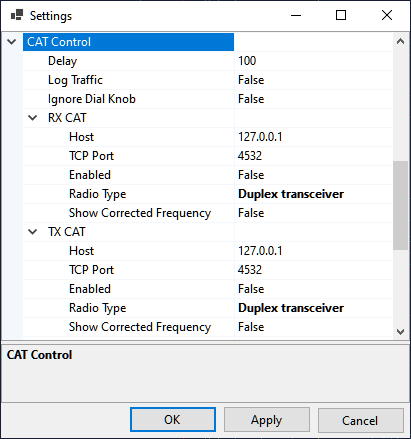
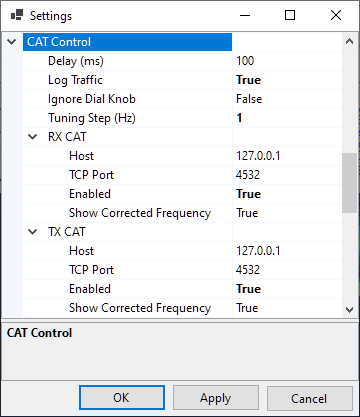
alt key increases wheel tuning speed

diff --git a/SkyRoof/Settings/SettingsDialog.cs b/SkyRoof/Settings/SettingsDialog.cs
@@ -97,12 +97,6 @@ namespace SkyRoof
         case "SkyRoof.OutputStreamSettings.Gain":
           ValidateInt(e, 60, -60);
           break;
-
-          //{!} case "SkyRoof.CatRadioSettings.Host":
-          //case "SkyRoof.CatRadioSettings.Port":
-          //case "SkyRoof.CatRadioSettings.RadioType":
-          //  VadidateCat(e);
-          //  break;
       }
 
       if (canChange) ChangedFields.Add(label);
@@ -129,26 +123,6 @@ namespace SkyRoof
       int cleanValue = Math.Max(min, Math.Min(max, (int)e.ChangedItem.Value));
       e.ChangedItem.PropertyDescriptor.SetValue(e.ChangedItem.Parent.Value, cleanValue);
     }
-
-    //{!} private void VadidateCat(PropertyValueChangedEventArgs e)
-    //{
-    //  var cat = (grid.SelectedObject as Settings)!.Cat;
-    //  if (!CatControl.IsSameHostPort(cat.RxCat, cat.TxCat)) return;
-
-    //  if (cat.RxCat.RadioType != cat.TxCat.RadioType)
-    //  {
-    //    if (e.ChangedItem?.Value?.ToString() == cat.TxCat.RadioType) 
-    //      cat.RxCat.RadioType = cat.TxCat.RadioType;
-    //    else 
-    //      cat.TxCat.RadioType = cat.RxCat.RadioType;
-
-    //    MessageBox.Show("RX CAT and TX CAT have the same host and port number. Making RadioTypes the same as well.",
-    //      "Warning", MessageBoxButtons.OK, MessageBoxIcon.Information);
-
-    //    return;
-    //  }
-    //}
-
 
 
 

diff --git a/SkyRoof/CAT/CatControlEngine.cs b/SkyRoof/CAT/CatControlEngine.cs
@@ -33,28 +33,9 @@ namespace SkyRoof
 
     public CatControlEngine(CatRadioSettings radioSettings, CatSettings catSettings) : base(radioSettings.Host, radioSettings.Port, catSettings)
     {
-      //{!} RadioType = radioSettings.RadioType;
       TuningStep = catSettings.TuningStep;
       IgnoreDialKnob = catSettings.IgnoreDialKnob;
     }
-
-    //{!}  todo: remove this, make RadioCapabilities of rigctld.exe a constant
-    //public static List<RadioCapabilities> BuildRadioCapabilitiesListZ()
-    //{
-    //  // try to read the cad_info file
-    //  string path = Path.Combine(Utils.GetUserDataFolder(), "cat_info.json");
-    //  RadioCapabilitiesList? list = null;
-    //  try { list = RadioCapabilitiesList.Load(path); } catch { }
-
-    //  // overwrite if cat_info is missing or corrupt, or outdated, or contains no radios
-    //  if (list == null || list.version < 1 || list.radios.Count == 0)
-    //  {
-    //    File.WriteAllBytes(path, Resources.cat_info);
-    //    list = RadioCapabilitiesList.Load(path);
-    //  }
-
-    //  return list.radios;
-    //}
 
     private void LogInfo(string msg)
     {

diff --git a/SkyRoof/Settings/CatSettings.cs b/SkyRoof/Settings/CatSettings.cs
@@ -63,12 +63,6 @@ namespace SkyRoof
     [DefaultValue(false)]
     public bool Enabled { get; set; }
 
-    //{!} [TypeConverter(typeof(RadioModelConverter))]
-    //[DisplayName("Radio Type")]
-    //[Description("Defines the capabilities of the radio")]
-    //[DefaultValue("Simplex")]
-    //public string RadioType { get; set; } = "Simplex";
-
     [DisplayName("Show Corrected Frequency")]
     [Description("Show the frequency with all corrections (True) or the nominal frequency (False)")]
     [DefaultValue(true)]

diff --git a/SkyRoof/Settings/Settings.cs b/SkyRoof/Settings/Settings.cs
@@ -73,10 +73,6 @@ namespace SkyRoof
         Ui.DockingLayoutString = Encoding.UTF8.GetString(Properties.Resources.default_docking);
 
       Satellites.Sanitize(true);
-
-      //{!} var validRadioTypes = CatControlEngine.BuildRadioCapabilitiesList().Select(r => r.model);
-      //if (!validRadioTypes.Contains(Cat.RxCat.RadioType)) Cat.RxCat.RadioType = "SkyCAT";
-      //if (!validRadioTypes.Contains(Cat.TxCat.RadioType)) Cat.TxCat.RadioType = "SkyCAT";
     }
   }
 }

diff --git a/SkyRoof/Panels/WaterfallPanel.cs b/SkyRoof/Panels/WaterfallPanel.cs
@@ -310,7 +310,9 @@ namespace SkyRoof
       if (freq == null) return;
       var x = ScaleControl.FreqToPixel((double)freq);
       if (Math.Abs(x - e.X) > 200) return;
-      ctx.FrequencyControl.IncrementDownlinkFrequency(e.Delta > 0 ? 20 : -20);
+
+      int step = ModifierKeys.HasFlag(Keys.Alt) ? 500 : 20;
+      ctx.FrequencyControl.IncrementDownlinkFrequency(e.Delta > 0 ? step : -step);
       ScaleControl.Refresh();
     }
 

diff --git a/SkyRoof/Utils.cs b/SkyRoof/Utils.cs
@@ -87,7 +87,7 @@ namespace VE3NEA
       var version = typeof(Utils).Assembly.GetName().Version!;
 
       // {!} todo: remove 'Beta' after release
-     return $"{version.Major}.{version.Minor} Beta";
+     return $"{version.Major}.{version.Minor} RC";
     }
 
     internal static string GetVersionString()

diff --git a/docs/users_guide/setting_up_cat_control.md b/docs/users_guide/setting_up_cat_control.md
@@ -1,8 +1,21 @@
 # Setting Up CAT Control
 
-## rigctld.exe
+SkyRoof uses an external program, either skyctld.exe from SkyCAT or rigctld.exe from HamLib, to control the transceiver. In both cases the CAT control commands are sent using the TCP protocol, so the radio may be moved to a remote computer and controlled via the network if desired.
 
-SkyRoof uses **rigctld.exe**, a HamLib-based CAT control daemon, to control the radio.
+## SkyCAT
+
+SkyCAT is specifically designed for the best satellite tracking experience. It has an open architecture where support of the new radio models is added by creating the command definition files with the corresponding commands. Check the [SkyCAT web site](https://ve3nea.github.io/SkyCAT/index.html)
+for the list of currently supported radios. If your radio model is not yet supported, either create a command definition file for it using the instructions on the SkyCAT web site, or use rigctld.exe instead (see below).
+
+## Using skycat.exe
+
+If your radio is supported by SkyCAT, use skycatd.exe, a command line program that comes as part of the SkyCAT package. To start using it, follow the
+[setup instructions](https://ve3nea.github.io/SkyCAT/skycatd.html) on the SkyCAT web site.
+
+
+## Using rigctld.exe
+
+If a SkyCAT command definition file for your transceiver is not yet available, use **rigctld.exe**, a HamLib-based CAT control daemon. Note, however, that some commands may not work properly with rigctld.exe.
 
 1. Download **hamlib-w64-4.5.5.exe** [from GitHub](https://github.com/Hamlib/Hamlib/releases/tag/4.5.5).
 Other versions may not work correctly.
@@ -23,31 +36,33 @@ Other versions may not work correctly.
 
     In the string above the following arguments are used:
 
-    - **-m 3081** - the radio model is IC-9700;
+    - **-m 3081** - the radio model; 3081 is the Id of IC-9700 (see the
+    [list of id's](https://github.com/Hamlib/Hamlib/wiki/Supported-Radios));
     - **-r COM9** - the COM port used by the radio. In this case, the USB connection to IC-9700 creates two virtual
         COM ports, COM9 and COM10. The port with the lower number is used for CAT;
-    - **-s 115200** - use the highest available COM port speed.
+    - **-s 115200** - use the highest available COM port speed;
+    - **-vvvvv** - optional, writes detailed information to the console window. Useful for troubleshooting.
 
 4. Run rigctld.exe using this shortcut before you enable CAT control in SkyRoof.
 
 ## Settings
 
-Click on **Tools / Settings** in the main menu to open the
-[Settings dialog](settings_window.md):
+The CAT Control settings in the [Settings dialog](settings_window.md) are the same for skycatd.exe and rigctld.exe.
+
+Click on **Tools / Settings** in the main menu to open the **Settings dialog**:
 
 ![Settings Dialog](../images/cat_settings.png)
 
 - **Delay** determines how often SkyRoof sends commands to the radio. The default delay of 100 ms
-    is good in most cases. Increase the delay if your radio is slow;
+    is good in most cases. Increase the delay if your radio's CAT interface is slow;
 - **Log Traffic** should be set to False and enabled only for debugging;
 - **Ignore Dial Knob** - by default, CAT control allows you to change the frequency both in the program and by
-    spinning the dial knob. If for some reason this causes trouble, change this setting to True, then the dial knob
-    will be ignored.
+    spinning the dial knob. If for some reason this causes trouble, change this setting to True, so that the dial knob rotation is ignored.
 
 The two sections in the Settings, **RX CAT** and **TX CAT**, allow you to use either the same radio for RX and TX, or
 two different radios. You can also enable only one of those, or disable both. The recommended configuration is to use an SDR for reception and a transceiver for transmission, in this case RX CAT should be disabled.
 
-To use the same radio for RX and TX, set **Host**, **TCP Port** and **Radio Type** to the same values in
+To use the same radio for RX and TX, set **Host** and **TCP Port** to the same values in
 both sections.
 
 To use two different radios, create a second shortcut for the second radio, and specify a different port number on the command line.
@@ -55,15 +70,11 @@ Enter this port number in the settings as well, and run two instances of **rigct
 
 The settings in the RX and TX sections are:
 
-- **Host** - should be "127.0.0.1" or "localhost" if rigctld is running on the same computer as SkyRoof. It may be changed to a
-    different address for remote control;
-- **TCP Port** - 4532 is the default port used by rigctld. Use a different port in one of the sections to control different radios for RX and TX;
+- **Host** - should be "127.0.0.1" or "localhost" if skycatd or rigctld is running on the same computer as SkyRoof. It may be changed to a different address for remote control;
+- **TCP Port** - 4532 is the default port used by skycatd and rigctld. Use a different port in one of the sections to control different radios for RX and TX;
 - **Enabled** - enable or disable CAT. Another way to toggle CAT is to click on the CAT labels on the status bar:
 
     ![CAT on Statusbar](../images/cat_on_statusbar.png)
 
-- **Radio Type** - as mentioned above, the beta version has been tested only with IC-9700, which is a duplex transceiver.
-    Change this setting if you want to test a radio of a different type;
 - **Show Corrected Frequency** - The SkyRoof can display either the nominal frequency of the satellite transmitter, or the
-    frequency with all corrections applied. Another way to toggle this setting is via a right-click menu on the frequency
-    display on the toolbar.
+    frequency with all corrections applied. Another way to toggle this setting is via the right-click menu on the frequency display widget on the toolbar.

diff --git a/docs/users_guide/frequency_scale.md b/docs/users_guide/frequency_scale.md
@@ -77,9 +77,9 @@ is enabled, tuning the SDR receiver also tunes the external radio to the same fr
 The Manual Offset setting compensates for the transmitter frequency error, see
 [Frequency Control](frequency_control.md) and [Doppler Tracking](doppler_tracking.md) for details.
 
-The offset value is usually the same for all transmitters of a satellite, adjust it for some
+The offset value is usually the same for all transmitters of a satellite, so you can adjust it for some
 non-transponder transmitter before using the transponder. Most satellites with a transponder also
-carry a telemetry or beacon transmitter that you can use to set the manual offset:
+carry a telemetry or beacon transmitter that you can use to set the manual offset. The screenshot below shows the telemetry signal of the MO-122 satellite, and the green rectangle perfectly aligned with its frequency by adjusting the Downlink Manual Offset:
 
 ![MO-122](../images/mo-122.png)
 
@@ -88,8 +88,7 @@ carry a telemetry or beacon transmitter that you can use to set the manual offse
 The screenshot below shows how to set Manual Correction for the uplink and downlink for a linear transponder, such as RS-44.
 
 1. Select the beacon transmitter of the satellite and adjust the Downlink Manual Correction setting to align the transmitter label
-and its signal trace on the waterfall. For RS-44 the required correction is about -1900 Hz. If your offset is different, then yor SDR
-requires [PPM calibration](calibrating_ppm_correction.md).
+and its signal trace on the waterfall. For RS-44 the required correction is about -1900 Hz. If your offset is significantly different from this value, this means that your SDR requires [PPM calibration](calibrating_ppm_correction.md).
 
 2. Select the transponder transmitter and find a clear frequency within the transponder segment. Send a sequence of dots
 and adjust the Uplink Manual Correction to align the center of the green rectangle with the trace of your signals coming from the satellite.

diff --git a/docs/users_guide/system_requirements.md b/docs/users_guide/system_requirements.md
@@ -6,18 +6,33 @@
 - **Video Card**:  OpenGL 3.3 or higher, 512 Mb of texture memory;
 - **Monitor**: screen resolution 1900x1280 or higher, 4K recommended;
 - **Internet**: required, to download satellite data;
-- **SDR**: optional, but highly recommended. Supported models:
+- **SDR**: optional, but highly recommended. Currently plugins are available for:
   - Airspy;
+  - AirspyHF+;
   - SDRplay;
   - RTL-SDR;
-  - HackRF.
+  - HackRF;
+  - PlutoSDR;
+  
+- **Transceiver**: optional. Currently the command definition files are available for:
 
-  Contact me for other models;
-- **Transceiver**: optional. The beta version was tested with IC-9700, IC-705, IC-910H, IC-7100 and  FT-991a.
-  Please try it with other models;
-- **Antenna rotator** - optional, any rotator supported by HamLib. Please test with yours and let me know.
+  - FT-817;
+  - FT-818;
+  - FT-847;
+  - FT-991a;
+  - IC-705;
+  - IC-706MKIIG;
+  - IC-915;
+  - IC-910H;
+  - IC-9700;
+  - TS-2000;
+
+  Many other radios are supported via HamLib;
+
+- **Antenna rotator** - optional, any rotator supported by HamLib.
 
 ## Software
 
 - **OS**: Windows 10 or Windows 11, 64-bit only;
+- **SkyCAT**: optional, for CAT control;
 - **HamLib**: optional, for CAT and rotator control.

diff --git a/docs/users_guide/data_folder.md b/docs/users_guide/data_folder.md
@@ -4,7 +4,10 @@ SkyRoof keeps all of its data in the **data folder**.
 
 - Click on **Help / Data Folder** in the main menu to open this folder in File Explorer.
 - To open the folder when the program is not running, type this in File Explorer:
-    `%appdata%\Afreet\Products\SkyRoof`
+
+    ```bash
+    %appdata%\Afreet\Products\SkyRoof`
+    ```
 
 ## Data Files
 
@@ -20,13 +23,14 @@ SkyRoof keeps all of its data in the **data folder**.
 
 - **Satellites.json** - the satellite database compiled from the downloaded data;
 
-- **cat_info.json** - information about the CAT capabilities of different radios;
+- **cat_info.json** - lists the CAT capabilities of a generic simplex radio;
 
 - **wsjtx_wisdom.dat** - optimal FFT transform settings found by automatic testing.
 
 ## Folders
 
 - **Logs** - contains the log files with error messages and other information;
+- **Adif** - QSO records stored in the ADIF format;
 - **Downloads** - a copy of the satellite data downloaded from various sources, kept for troubleshooting;
 - **Palettes** - definition of the color palettes used by the waterfall display. Add your own
     palette as a text file with "html" color codes. Pick the color codes at

diff --git a/docs/users_guide/calibrating_ppm_correction.md b/docs/users_guide/calibrating_ppm_correction.md
@@ -8,7 +8,7 @@ which translates to a tuning error of 1-2 Khz on the 70 cm band. For accurate tr
 must be calibrated out. The calibration process is simple, we just find a signal of known frequency, check on what frequecy it
 appears on the waterfall, and compute the PPM correction factor from the difference between the two.
 
-There are plenty of signals on the air that may be used for calibration, if one knows what to look for. One of such
+There is plenty of signals on the air that may be used for calibration, if one knows what to look for. One of such
 signals is the
 [FCCH channel](https://en.wikipedia.org/wiki/FCCH)
 of a
@@ -42,7 +42,7 @@ panel on the toolbar to open the frequency entry dialog:
     ![waterfall](../images/ppm_calibration_1.png)
 
 5. Zoom in by spinning the mouse wheel over the waterfall display:
-6. Find the FCCH signal. On the screenshot below it is about 4 kHz above the expected frequency:
+6. Find the FCCH signal. In the screenshot below it is about 4 kHz above the expected frequency:
 
     ![waterfall](../images/ppm_calibration_2.png)
 

diff --git a/docs/users_guide/setting_up_sdr.md b/docs/users_guide/setting_up_sdr.md
@@ -7,10 +7,11 @@ SkyRoof uses the
 engine to interface with the SDR radios. Currently it supports:
 
 - Airspy;
+- AirspyHF+;
 - SDRplay;
 - RTL-SDR;
 - HackRF;
-- PlutoSDR.
+- PlutoSDR;
 
 > [!NOTE]
 > It may be possible to add support of other SDR devices to SkyRoof. Contact me if you have an unsupported SDR
@@ -23,7 +24,8 @@ or search on Google, for the driver installation instructions. At the time of th
 [Airspy](https://airspy.com/quickstart/),
 [RTL-SDR](https://www.rtl-sdr.com/rtl-sdr-quick-start-guide/),
 [SDRplay](https://www.sdrplay.com/api/),
-[HackRF](https://hackrf.readthedocs.io/en/latest/installing_hackrf_software.html).
+[HackRF](https://hackrf.readthedocs.io/en/latest/installing_hackrf_software.html),
+[PlutoSDR](https://wiki.analog.com/university/tools/pluto/users/quick_start).
 
 Once you install the drivers and make your radio work with its native software, proceed to the next step.
 
